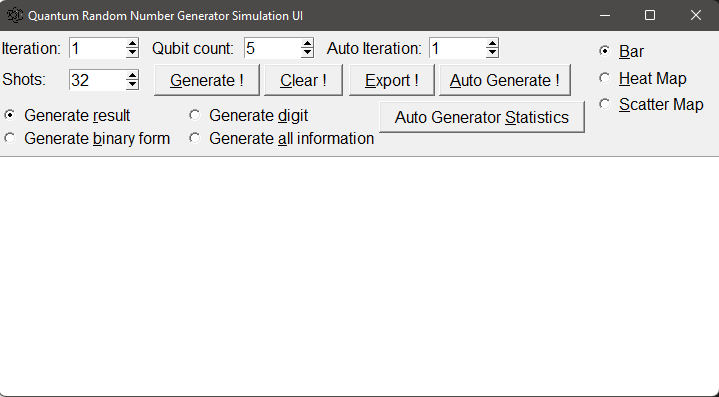
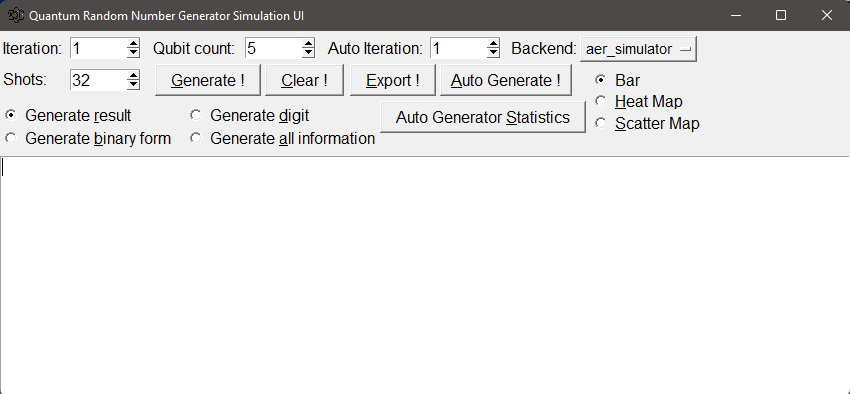
Adding backend option

diff --git a/Quantum_Random_Number_Generator_Simulation_UI.py b/Quantum_Random_Number_Generator_Simulation_UI.py
@@ -8,6 +8,7 @@ from matplotlib.backends.backend_tkagg import FigureCanvasTkAgg
 from os import path
 from tkinter import *
 from qiskit import *
+from tkinter import font as Font
 
 def get_autogen_stat(event=None):
     window2 = Toplevel(window)
@@ -78,6 +79,7 @@ def auto_gen(event=None):
     n=int(spin_n.get())
     shot=int(spin_shots.get())
     q=int(spin_qubit.get())
+    backend = option_var.get()
     iteration=int(spin_autogen.get())
     rslt_list = []
     freq = {}
@@ -105,7 +107,7 @@ def auto_gen(event=None):
                 circ.measure(i,i)
         number = [] #init a list  
         for i in range(0,int(n)):   #how many iteration which effect how many digit created
-            sim = Aer.get_backend('qasm_simulator') #get qiskit simulator
+            sim = Aer.get_backend(backend) #get qiskit simulator
             job = execute(circ, sim, shots = int(shot))   #execute job using existing circuit, simulator, and number of shot
             result = job.result()   #get the job result
             count = result.get_counts(circ) #get the probability count datatype→dict
@@ -168,6 +170,7 @@ def help(event=None):
     \nExport → It'll export output from text box to an file
     \nAuto generate → It'll generate output and export it into a file
     \nAuto generate statistic → It'll create visualization using bar, heatmap, or line graph
+    \nBackend → It'll use backend what you choose
     \nKeyboard Shortcut:
     \t1. Ctrl+g → Generate number
     \t2. Ctrl+c → Clear output from text box
@@ -196,6 +199,7 @@ def generate(event=None):
     n = int(spin_n.get())   #get value from spin box
     shot = int(spin_shots.get())
     q = int(spin_qubit.get())
+    backend = option_var.get()
     circ = QuantumCircuit(q,q)  #init quantum circuit
     if(q==1):
         for i in range(0,q):
@@ -219,7 +223,7 @@ def generate(event=None):
             circ.measure(i,i)
     number = [] #init a list  
     for i in range(0,int(n)):   #how many iteration which effect how many digit created
-        sim = Aer.get_backend('qasm_simulator') #get qiskit simulator
+        sim = Aer.get_backend(backend) #get qiskit simulator
         job = execute(circ, sim, shots = int(shot))   #execute job using existing circuit, simulator, and number of shot
         result = job.result()   #get the job result
         count = result.get_counts(circ) #get the probability count datatype→dict
@@ -252,40 +256,66 @@ def generate(event=None):
 
 #get the path for file
 get_path = os.getcwd()
-#init all Tkinter UI
+options = [
+    "aer_simulator",
+    "qasm_simulator",
+    "statevector_simulator",
+    "aer_simulator_stabilizer",
+    "aer_simulator_statevector",
+    "aer_simulator_density_matrix",
+    "aer_simulator_matrix_product_state"
+]
+#init all Tkinter UI and Settings
 window = Tk()
 n_var = StringVar(window)
 shots_var = StringVar(window)
 qubit_var = StringVar(window)
-auto_gen_var = StringVar()
+auto_gen_var = StringVar(window)
+option_var = StringVar(window)
 var = IntVar(window)
 varCheck1 = IntVar(window)
 varCheck1.set(1)
 var.set(1)
+option_var.set(options[0])
 qubit_var.set("1024")
-window.geometry("720x365")
+window.geometry("850x365")
 photo = PhotoImage(file = get_path+'/quantum.png')
 window.iconphoto(False, photo)
 window.tk.call('tk','scaling','1')
+frames = [PhotoImage(file= get_path+'/qiskit.gif', format='gif -index %i' %(i)) for i in range(30)]
 window.title('Quantum Random Number Generator Simulation UI')
+font14 = Font.Font(size=14)
+font11 = Font.Font(size=12)
+#Label init
 lbl_n = Label(window,text="Iteration: ",justify="left", anchor="e", font=14)
 lbl_shots = Label(window, text="Shots: ",justify="left", anchor="e", font=14)
+lbl_qubit = Label(window, text="Qubit count: ", font=14, anchor="e", justify="left")
+lbl_autogen = Label(window, text="Auto Iteration: ", justify="left", anchor="e", font=14)
+lbl_backend = Label(window, text="Backend: ", font=14, justify="left", anchor="e")
+lbl_gif = Label(window)
+#Spinbox init
 spin_n = Spinbox(window, font=14, from_=1, to=10000, width=6, repeatdelay=200, repeatinterval=90, wrap=True, textvariable=n_var)
+spin_qubit = Spinbox(window, font=14, width=6, repeatdelay=100, repeatinterval=90, wrap=True, from_=1, to=5, textvariable=qubit_var)
 spin_shots = Spinbox(window, font=14, width=6, repeatdelay=200, repeatinterval=90, wrap=True ,values=(32, 64, 128, 256, 512, 1024, 2048, 4096, 8192, 16384, 32768, 65536), textvariable=shots_var)
+spin_autogen = Spinbox(window, font=14, from_=1, to=10000, width=6, repeatdelay=200, repeatinterval=90, wrap=True, textvariable=auto_gen_var)
+#Button init
+btn_clear = Button(window, font=14, text="Clear !", padx=10, cursor="hand2", command=clear, underline=0)
+btn_export = Button(window, font=14, text="Export !", padx=10, cursor="hand2", command=exports, underline=0)
+btn_auto = Button(window, font=5, text="Auto Generate !", padx=5, cursor="hand2", command=auto_gen, underline=0)
 btn_generate = Button(window, font=14, text="Generate !", padx=10, command=generate, cursor="hand2", underline=0, repeatdelay=200, repeatinterval=90)
-txt_view = Text(window, font=14, width=80, wrap=CHAR, xscrollcommand=set())
+btn_stat = Button(window, font=14, text="Auto Generator Statistics", padx=10, cursor="hand2", command=get_autogen_stat, underline=15)
+#Text init
+txt_view = Text(window, font=14, width=94, wrap=CHAR, xscrollcommand=set())
+#Drop menu init
+drop_menu = OptionMenu(window, option_var, *options)
+drop_menu.config(font=font14)
+option_menu = window.nametowidget(drop_menu.menuname)
+option_menu.config(font=font11)
+#Radio init
 radio_result = Radiobutton(window, font=14, text="Generate result", value=1, variable = var, underline=9)
 radio_binary = Radiobutton(window, font=14, text="Generate binary form", value=2, variable = var, underline=9)
 radio_digit = Radiobutton(window, font=14, text="Generate digit", value=3, variable = var, underline=9)
 radio_all = Radiobutton(window, font=14, text="Generate all information", value=4, variable = var, underline=9)
-lbl_qubit = Label(window, font=14, anchor="e", justify="left", text="Qubit count: ")
-spin_qubit = Spinbox(window, font=14, width=6, repeatdelay=100, repeatinterval=90, wrap=True, from_=1, to=5, textvariable=qubit_var)
-clr_btn = Button(window, font=14, text="Clear !", padx=10, cursor="hand2", command=clear, underline=0)
-export_btn = Button(window, font=14, text="Export !", padx=10, cursor="hand2", command=exports, underline=0)
-btn_auto = Button(window, font=5, text="Auto Generate !", padx=5, cursor="hand2", command=auto_gen, underline=0)
-lbl_autogen = Label(window, text="Auto Iteration: ", justify="left", anchor="e", font=14)
-spin_autogen = Spinbox(window, font=14, from_=1, to=10000, width=6, repeatdelay=200, repeatinterval=90, wrap=True, textvariable=auto_gen_var)
-btn_stat = Button(window, font=14, text="Auto Generator Statistics", padx=10, cursor="hand2", command=get_autogen_stat, underline=15)
 radio_br = Radiobutton(window, font=14, text="Bar", variable=varCheck1, underline = 0, value = 1)
 radio_hm = Radiobutton(window, font=14, text="Heat Map", variable=varCheck1, underline = 0, value = 2)
 radio_sc = Radiobutton(window, font=14, text="Scatter Map", variable=varCheck1, underline = 0, value = 3)
@@ -295,8 +325,8 @@ spin_n.place(x=70, y=6)
 lbl_shots.place(x=0, y=36)
 spin_shots.place(x=70, y=38)
 btn_generate.place(x=155, y=33)
-clr_btn.place(x=265, y=33)
-export_btn.place(x=350, y=33)
+btn_clear.place(x=265, y=33)
+btn_export.place(x=350, y=33)
 lbl_qubit.place(x=150, y=5)
 spin_qubit.place(x=245, y=6)
 radio_result.place(x=0, y=70)
@@ -308,9 +338,11 @@ spin_autogen.place(x=430, y=6)
 txt_view.place(x=0, y=125)
 btn_auto.place(x=440, y=33)
 btn_stat.place(x=380, y=70)
-radio_br.place(x=595, y=6)
-radio_hm.place(x=595, y=33)
-radio_sc.place(x=595, y=59)
+radio_br.place(x=590, y=35)
+radio_hm.place(x=590, y=56)
+radio_sc.place(x=590, y=78)
+lbl_backend.place(x=508, y=5)
+drop_menu.place(x=578, y=3)
 #Keyboard bind
 window.bind('<F1>', help)   #add keyboard trigger F1
 window.bind('<Control_L><g>', generate) #add keyboard trigger Ctrl+g
